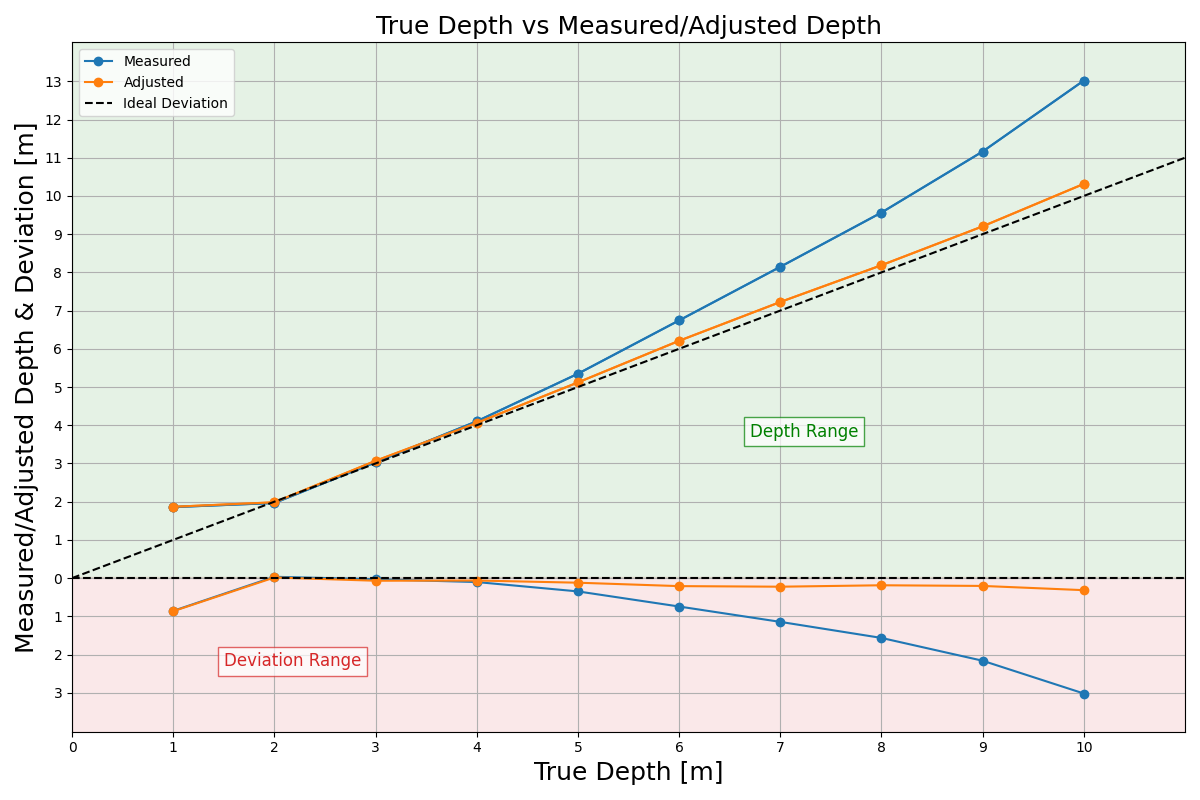
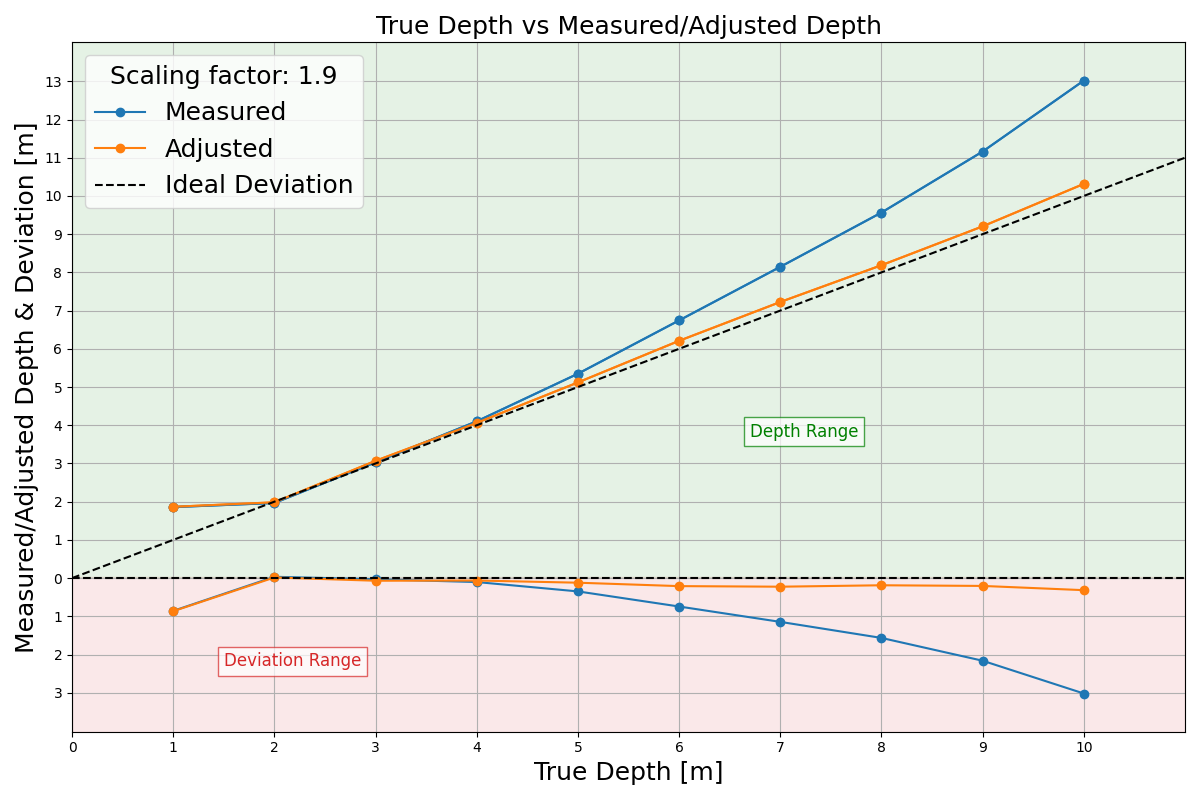
Please be done

Changed region(s): [[0.0617, 0.0625, 0.3083, 0.25]]

diff --git a/Validation/InitialMeasurements.py b/Validation/InitialMeasurements.py
@@ -69,7 +69,7 @@ plt.yticks(range(-1 + 1, y_max))  # Exclude the first and last numbers on the y-
 plt.xlabel("True Depth [m]", fontsize=18)
 plt.ylabel("Measured Depth [m]", fontsize=18)
 plt.title("True Depth vs Measured Depth for Different Scaling Factors", fontsize=18)
-plt.legend(title="Scaling Factors (Calibrated between 2-6m)", loc='upper left')
+plt.legend(title="Scaling Factors (Calibrated between 2-6m)", loc='upper left', title_fontsize=14, fontsize=14)
 plt.grid(True)
 
 # Save the first figure
@@ -103,7 +103,7 @@ plt.yticks(range(y_min + 1, 4))  # Exclude the first and last numbers on the y-a
 plt.xlabel("True Depth [m]", fontsize=18)
 plt.ylabel("Deviation [m]", fontsize=18)
 plt.title("Deviation vs True Depth for Different Scaling Factors", fontsize=18)
-plt.legend(title="Scaling Factors (Calibrated between 2-6m)", loc='upper left')
+plt.legend(title="Scaling Factors (Calibrated between 2-6m)", loc='upper left', fontsize=14, title_fontsize=14)
 plt.grid(True)
 
 # Save the second figure

diff --git a/Validation/AdjustedMeasurements.py b/Validation/AdjustedMeasurements.py
@@ -68,7 +68,7 @@ plt.xlabel('True Depth [m]', fontsize=18)
 plt.ylabel('Measured/Adjusted Depth & Deviation [m]', fontsize=18)
 plt.title('True Depth vs Measured/Adjusted Depth', fontsize=18)
 
-plt.legend()
+plt.legend(title="Scaling factor: 1.9", title_fontsize=18, fontsize=18)
 plt.grid(True)
 
 # Highlight error range
